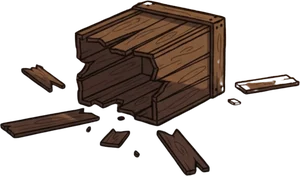
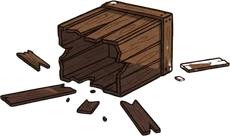
Ангар: объёмные инструменты №11

diff --git a/docs/hangar/tools/build.py b/docs/hangar/tools/build.py
@@ -19,7 +19,7 @@ ITEMS = {
   8:  ('08-before', '08-after',  dict(b=(232, 470, 74), a=(232, 470, 68)),   1, 1,   False),
   9:  ('09-before', '09-after',  dict(b=(330, 915, 120), a=(210, 790, 40)),  1, 1,   False),
   10: ('10-before', '10-after',  dict(b=(110, 815, 185), a=(115, 805, 118)), 1, 1,   False),
-  11: ('11-before-draft', '11-after-draft', dict(b=(215, 985, 235), a=(215, 985, 190)), .7, .75, False),
+  11: ('11-before', '11-after', dict(b=(250, 990, 240), a=(215, 975, 130)), 1, 1, False),
   12: ('12-before', '12-after',  dict(b=(720, 965, 170), a=(720, 960, 120)), 1, 1,   False),
   13: ('13-before', '13-after',  dict(b=(745, 715, 85), a=(745, 715, 85)),   1, 1,   False),
 }
@@ -47,7 +47,7 @@ bg.save(f'{OUT}/bg.webp', quality=86)
 layout = {}
 for i, (bn, an, pos, sb, sa, flip) in ITEMS.items():
     for key, name, sq, fl in (('b', bn, sb, False), ('a', an, sa, flip)):
-        im = prep(name, sq, fl, erase=[(0, 760), (330, 1024), (0, 1024)] if name == '11-before-draft' else None)
+        im = prep(name, sq, fl, erase=None)
         x, y, w = pos[key]
         h = round(im.height * w / im.width)
         im = im.resize((w * 2, h * 2), Image.Resampling.LANCZOS)  # ×2 — чётко на телефоне с ретиной
@@ -68,7 +68,7 @@ layout['rocket'] = rocket
 # Грязный фон (выровнен с чистым — проявляется поверх него ступенями) и хлам на полу (исчезает по одному).
 Image.open(f'{H}/bg-dirty.jpg').convert('RGB').save(f'{OUT}/bg-dirty.webp', quality=86)
 JUNK = {  # номер: (x, y низа, ширина) на холсте 1024
-  1: (470, 885, 75), 2: (600, 735, 70), 3: (420, 712, 62), 4: (95, 985, 150), 5: (955, 800, 120),
+  1: (470, 885, 75), 2: (600, 735, 70), 3: (420, 712, 62), 4: (70, 905, 115), 5: (955, 800, 120),
   6: (640, 870, 110), 7: (985, 965, 95), 8: (385, 772, 58), 9: (655, 805, 120), 10: (50, 730, 100),
   11: (560, 940, 62), 12: (455, 1022, 135), 13: (705, 770, 70),
 }
